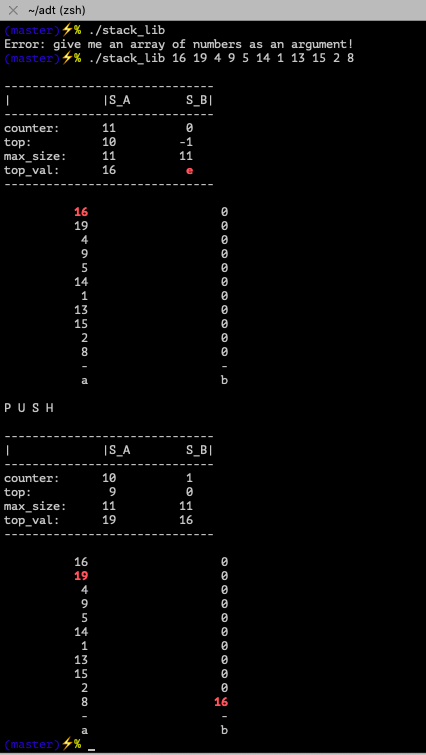
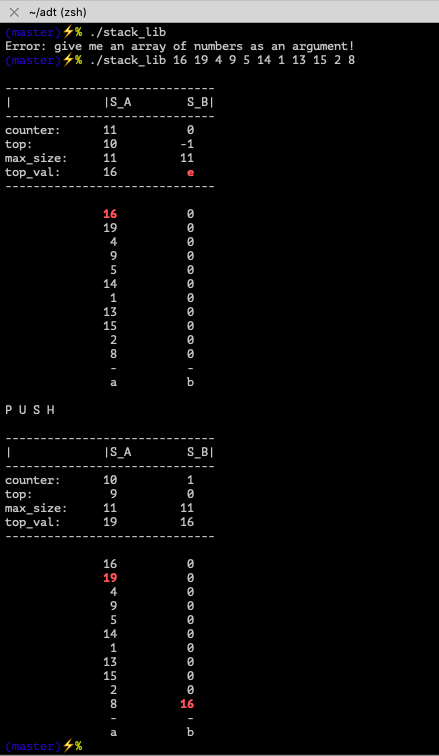
add result image

diff --git a/stack_array_adt/source/stackarr_add_fns.c b/stack_array_adt/source/stackarr_add_fns.c
@@ -67,24 +67,24 @@ void Print_two_stacks(t_stack *stack_a, t_stack *stack_b)
 		if (i == stack_a->counter - 1)
 		{
 			red();
-			printf("%12d", stack_a->array[i]);
+			printf("%16d", stack_a->array[i]);
 			reset();
 		}
 		else
-			printf("%12d", stack_a->array[i]);
+			printf("%16d", stack_a->array[i]);
 
 		if (i == stack_b->counter - 1)
 		{
 			red();
-			printf("%20d\n", stack_b->array[i]);
+			printf("%11d\n", stack_b->array[i]);
 			reset();
 		}
 		else
-			printf("%20d\n", stack_b->array[i]);
+			printf("%11d\n", stack_b->array[i]);
 		i--;
 	}
-	printf("%12s %19s\n", "-", "-" );
-	printf("%12s %19s\n", "a", "b" );
+	printf("%16s %10s\n", "-", "-" );
+	printf("%16s %10s\n", "a", "b" );
 }
 
 void Print_stacks_info(t_stack *stack_a, t_stack *stack_b)
